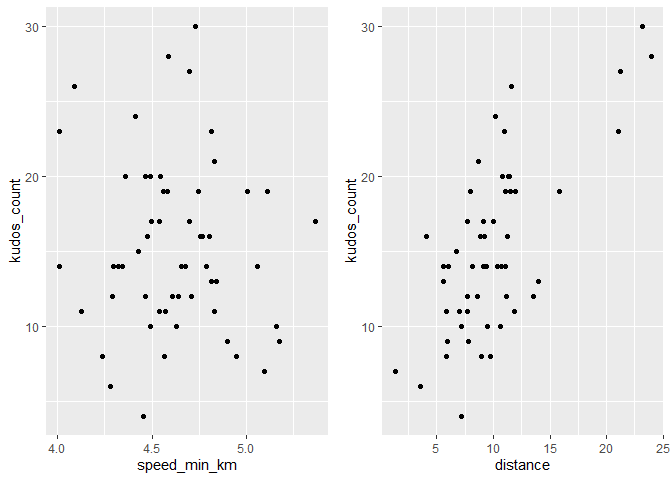
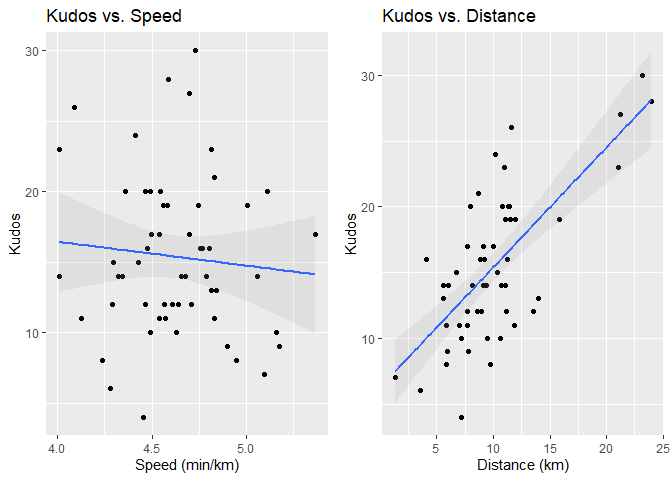
speed distance

diff --git a/README.md b/README.md
@@ -31,8 +31,9 @@ Volz](https://github.com/marcusvolz/strava).
 I thought this was an awesome plot that Marcus Volz made - so simple yet
 effective in visualising all your activities in one plot.
 
-![](README_files/figure-gfm/cars-1.png)<!-- --> \#\# Using the Strava
-API
+![](README_files/figure-gfm/cars-1.png)<!-- -->
+
+## Using the Strava API
 
 The Strava API allows you to pull all of your activities into a data
 frame, which each row representing an aggreagted view of your
@@ -45,18 +46,227 @@ activities.
 ### Speed vs Distance
 
 What happens to my speed as the distance I run get longer…. pretty
-obvious. The one interesting thing was that my runs in the 6km to 9km
-range were on average faster than the under 5km range. My guess is that
-the majority of my ‘Under 5km runs’ are when I have no energy to get out
-and do a proper run, and so I just run at a casual pace.
+obvious. The one interesting thing was that my runs in the *6km to 9km*
+range were on **average** faster than the *Under 6km* range. However,
+looking at the **median** the *Under 6km* runs are faster. My guess is
+that occasionally when I am not feeling up for a run, I will just head
+out for a short and slow run which is skewing these means.
 
-| distance\_bucket | Number of Runs | Average Distance | Average Speed |
-| :--------------- | -------------: | ---------------: | ------------: |
-| \< 6km           |             20 |         4.489070 |        4M 29S |
-| 6km - 9km        |             65 |         7.435383 |        4M 27S |
-| 9km - 12km       |             42 |        10.384460 |        4M 33S |
-| 12km - 15km      |             14 |        12.998479 |        4M 36S |
-| \> 15km          |             15 |        22.594313 |        4M 43S |
+<table>
+
+<thead>
+
+<tr>
+
+<th style="text-align:left;">
+
+distance\_bucket
+
+</th>
+
+<th style="text-align:right;">
+
+Number of Runs
+
+</th>
+
+<th style="text-align:right;">
+
+Average Distance
+
+</th>
+
+<th style="text-align:right;">
+
+Average Speed
+
+</th>
+
+<th style="text-align:right;">
+
+Median Speed
+
+</th>
+
+</tr>
+
+</thead>
+
+<tbody>
+
+<tr>
+
+<td style="text-align:left;">
+
+\< 6km
+
+</td>
+
+<td style="text-align:right;">
+
+20
+
+</td>
+
+<td style="text-align:right;">
+
+4.489070
+
+</td>
+
+<td style="text-align:right;">
+
+4M 29S
+
+</td>
+
+<td style="text-align:right;">
+
+4M 22S
+
+</td>
+
+</tr>
+
+<tr>
+
+<td style="text-align:left;">
+
+6km - 9km
+
+</td>
+
+<td style="text-align:right;">
+
+65
+
+</td>
+
+<td style="text-align:right;">
+
+7.435383
+
+</td>
+
+<td style="text-align:right;">
+
+4M 27S
+
+</td>
+
+<td style="text-align:right;">
+
+4M 27S
+
+</td>
+
+</tr>
+
+<tr>
+
+<td style="text-align:left;">
+
+9km - 12km
+
+</td>
+
+<td style="text-align:right;">
+
+42
+
+</td>
+
+<td style="text-align:right;">
+
+10.384460
+
+</td>
+
+<td style="text-align:right;">
+
+4M 33S
+
+</td>
+
+<td style="text-align:right;">
+
+4M 33S
+
+</td>
+
+</tr>
+
+<tr>
+
+<td style="text-align:left;">
+
+12km - 15km
+
+</td>
+
+<td style="text-align:right;">
+
+14
+
+</td>
+
+<td style="text-align:right;">
+
+12.998479
+
+</td>
+
+<td style="text-align:right;">
+
+4M 36S
+
+</td>
+
+<td style="text-align:right;">
+
+4M 37S
+
+</td>
+
+</tr>
+
+<tr>
+
+<td style="text-align:left;">
+
+\> 15km
+
+</td>
+
+<td style="text-align:right;">
+
+15
+
+</td>
+
+<td style="text-align:right;">
+
+22.594313
+
+</td>
+
+<td style="text-align:right;">
+
+4M 43S
+
+</td>
+
+<td style="text-align:right;">
+
+4M 44S
+
+</td>
+
+</tr>
+
+</tbody>
+
+</table>
 
 ![](README_files/figure-gfm/speed%20vs%20distance-1.png)<!-- -->
 
@@ -64,8 +274,8 @@ and do a proper run, and so I just run at a casual pace.
 
 The social-media part of Strava allows users to like each others
 activities that they have posted, in Strava, this is called giving
-**‘Kudos’**. I wondered, what the best way to get Kudos from my Strava
-community. Do they prefer fast runs, or longer runs?
+**‘Kudos’**. I wondered what the best way to get Kudos from my Strava
+community was. Do they prefer fast runs, or longer runs?
 
 I should note that around mid-late April 2020 I synced my Strava with my
 Facebook account meaning I was now connected to a larger community of my
@@ -74,9 +284,28 @@ after April 24th 2020.
 
 ![](README_files/figure-gfm/kudos-1.png)<!-- -->
 
-The evidence is clear:
+A linear regression run of *Kudos = Distance* gives a coefficient of
+0.5405. This means I should expect to get 1 kudos for every 540m run.
 
-**DISTANCE = KUDOS**
+    ## 
+    ## Call:
+    ## lm(formula = kudos_count ~ 0 + speed_min_km, data = acts)
+    ## 
+    ## Coefficients:
+    ## speed_min_km  
+    ##         1.62
+
+    ## 
+    ## Call:
+    ## lm(formula = kudos_count ~ distance, data = acts)
+    ## 
+    ## Coefficients:
+    ## (Intercept)     distance  
+    ##      1.9404       0.5394
+
+The evidence from this very detailed analysis is clear…
+
+<span style="     color: red !important;">DISTANCE = KUDOS</span>
 
 ## Visualising GPS data
 
